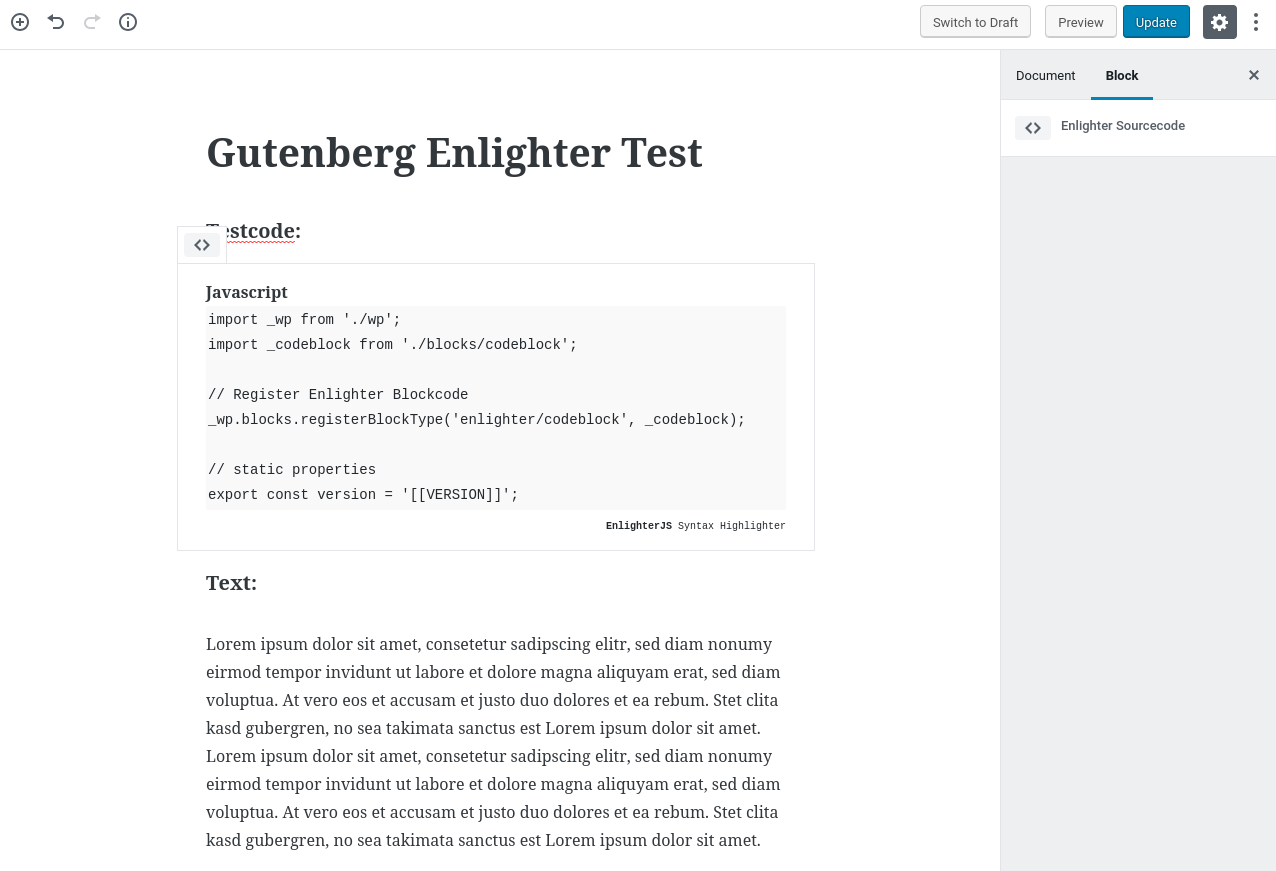
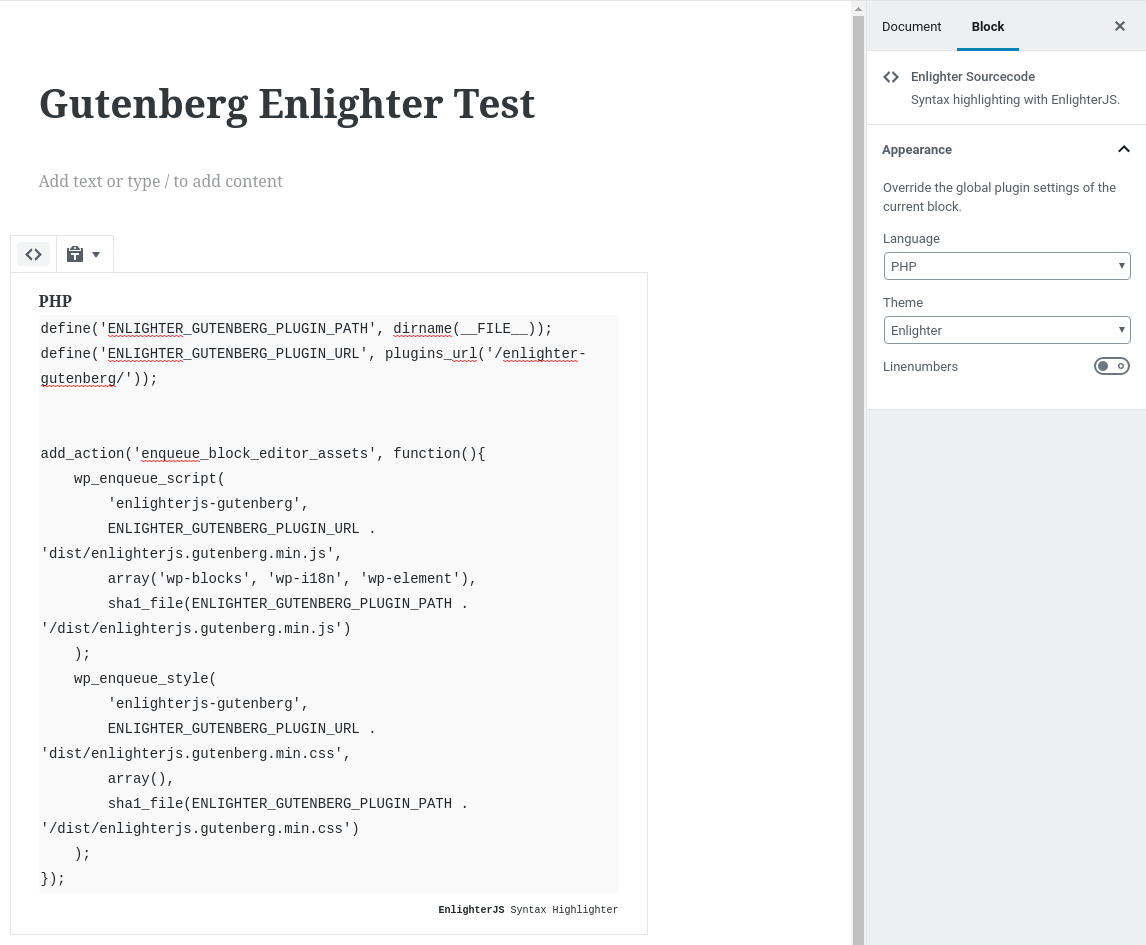
new screenshots; added theme+language selects to block settings

diff --git a/dist/enlighterjs.gutenberg.min.js b/dist/enlighterjs.gutenberg.min.js
@@ -47,7 +47,7 @@ var EnlighterJS_Gutenberg = (function (exports) {
         // create dropdown menu
         return wp.element.createElement(Components.DropdownMenu, {
             className: 'enlighter-dropdownmenu',
-            icon: 'format-aside',
+            icon: 'editor-paste-text',
             label: 'Select Language',
             controls: languageItemList
         });
@@ -55,8 +55,37 @@ var EnlighterJS_Gutenberg = (function (exports) {
 
     // ----------------------------------------------------------------------
 
+    // create a language selection menu
+    function LanguageSelect(_ref) {
+        var onChange = _ref.onChange,
+            value = _ref.value;
+
+
+        // generate dropdown list
+        var languageItemList = Object.keys(EnlighterJS_EditorConfig.languages).map(function (label) {
+
+            // extract language identifier
+            var languageIdentifier = EnlighterJS_EditorConfig.languages[label];
+
+            return {
+                label: label,
+                value: languageIdentifier
+            };
+        });
+
+        // create dropdown menu
+        return wp.element.createElement(Components.SelectControl, {
+            label: 'Language',
+            value: value,
+            onChange: onChange,
+            options: languageItemList
+        });
+    }
+
+    // ----------------------------------------------------------------------
+
     // create a theme selection menu
-    function ThemeMenu(_ref) {
+    function ThemeSelect(_ref) {
         var onChange = _ref.onChange,
             value = _ref.value;
 
@@ -68,23 +97,17 @@ var EnlighterJS_Gutenberg = (function (exports) {
             var themeIdentifier = EnlighterJS_EditorConfig.themes[label];
 
             return {
-                title: label,
-
-                // current item active ?
-                isActive: value === themeIdentifier,
-
-                // passthrough
-                onClick: function onClick() {
-                    return onChange(themeIdentifier);
-                }
+                label: label,
+                value: themeIdentifier
             };
         });
 
         // create dropdown menu
-        return wp.element.createElement(Components.DropdownMenu, {
-            icon: 'admin-appearance',
-            label: 'Select Theme',
-            controls: themeItemList
+        return wp.element.createElement(Components.SelectControl, {
+            label: 'Theme',
+            value: value,
+            onChange: onChange,
+            options: themeItemList
         });
     }
 
@@ -104,6 +127,7 @@ var EnlighterJS_Gutenberg = (function (exports) {
 
         // metadata
         title: 'Enlighter Sourcecode',
+        description: 'Syntax highlighting with EnlighterJS.',
         icon: 'editor-code',
         category: 'formatting',
         keywords: ['code', 'sourcecode', 'enlighter'],
@@ -252,7 +276,6 @@ var EnlighterJS_Gutenberg = (function (exports) {
 
 
             // use standard Gutenberg PlainText View with custom styles
-            // 
             return wp.element.createElement(
                 Element.Fragment,
                 null,
@@ -264,9 +287,6 @@ var EnlighterJS_Gutenberg = (function (exports) {
                         null,
                         wp.element.createElement(LanguageMenu, { value: attributes.language, onChange: function onChange(language) {
                                 return setAttributes({ language: language });
-                            } }),
-                        wp.element.createElement(ThemeMenu, { value: attributes.theme, onChange: function onChange(theme) {
-                                return setAttributes({ theme: theme });
                             } })
                     )
                 ),
@@ -310,7 +330,18 @@ var EnlighterJS_Gutenberg = (function (exports) {
                     null,
                     wp.element.createElement(
                         Components.PanelBody,
-                        { title: 'Settings' },
+                        { title: 'Appearance' },
+                        wp.element.createElement(
+                            'p',
+                            null,
+                            'Override the global plugin settings of the current block.'
+                        ),
+                        wp.element.createElement(LanguageSelect, { value: attributes.language, onChange: function onChange(language) {
+                                return setAttributes({ language: language });
+                            } }),
+                        wp.element.createElement(ThemeSelect, { value: attributes.theme, onChange: function onChange(theme) {
+                                return setAttributes({ theme: theme });
+                            } }),
                         wp.element.createElement(Components.ToggleControl, {
                             label: 'Linenumbers',
                             checked: attributes.linenumbers,

diff --git a/src/blocks/codeblock.js b/src/blocks/codeblock.js
@@ -8,8 +8,9 @@
 
 import {Editor, Components, Element, Blocks} from '../wp';
 import _TextEditor from '../components/TextEditor';
-import _LanguageMenu from '../components/LanguageMenu';
-import _ThemeMenu from '../components/ThemeMenu';
+import _LanguageMenu from '../components/blockcontrols/LanguageMenu';
+import _LanguageSelect from '../components/inspectorcontrols/LanguageSelect';
+import _ThemeSelect from '../components/inspectorcontrols/ThemeSelect';
 import {getLanguageLabel} from '../languages';
 
 // Standard Codeblock
@@ -17,6 +18,7 @@ export default {
 
     // metadata
     title: 'Enlighter Sourcecode',
+    description: 'Syntax highlighting with EnlighterJS.',
     icon: 'editor-code',
     category: 'formatting',
     keywords: ['code', 'sourcecode', 'enlighter'],
@@ -160,13 +162,11 @@ export default {
     edit: function ui({attributes, setAttributes}){
 
         // use standard Gutenberg PlainText View with custom styles
-        // 
         return <Element.Fragment>
 
             <Editor.BlockControls>
                 <Components.Toolbar>
                     <_LanguageMenu value={attributes.language} onChange={(language) => setAttributes({language})}/>
-                    <_ThemeMenu value={attributes.theme} onChange={(theme) => setAttributes({theme})} />
                 </Components.Toolbar>
             </Editor.BlockControls>
 
@@ -186,7 +186,10 @@ export default {
             </div>
 
             <Editor.InspectorControls>
-                <Components.PanelBody title="Settings">
+                <Components.PanelBody title="Appearance">
+                    <p>Override the global plugin settings of the current block.</p>
+                    <_LanguageSelect value={attributes.language} onChange={(language) => setAttributes({language})} />
+                    <_ThemeSelect value={attributes.theme} onChange={(theme) => setAttributes({theme})} />
                     <Components.ToggleControl
                         label="Linenumbers"
                         checked={ attributes.linenumbers }

diff --git a/src/components/inspectorcontrols/ThemeSelect.js b/src/components/inspectorcontrols/ThemeSelect.js
@@ -6,11 +6,11 @@
 // Copyright 2018 Andi Dittrich <https://andidittrich.de>
 // ----------------------------------------------------------------------
 
-import {Components} from '../wp';
-import _editorConfig from '../config';
+import {Components} from '../../wp';
+import _editorConfig from '../../config';
 
 // create a theme selection menu
-export default function ThemeMenu({onChange, value}){
+export default function ThemeSelect({onChange, value}){
 
     // generate dropdown list
     const themeItemList = Object.keys(_editorConfig.themes).map(label => {
@@ -19,20 +19,16 @@ export default function ThemeMenu({onChange, value}){
         const themeIdentifier = _editorConfig.themes[label];
 
         return {
-            title: label,
-
-            // current item active ?
-            isActive: (value === themeIdentifier),
-
-            // passthrough
-            onClick: () => onChange(themeIdentifier)
+            label: label,
+            value: themeIdentifier
         };
     });
 
     // create dropdown menu
-    return <Components.DropdownMenu
-        icon="admin-appearance"
-        label="Select Theme"
-        controls={themeItemList}
+    return <Components.SelectControl
+        label="Theme"
+        value={value}
+        onChange={onChange}
+        options={themeItemList}
     />
 }

diff --git a/src/components/inspectorcontrols/LanguageSelect.js b/src/components/inspectorcontrols/LanguageSelect.js
@@ -1,0 +1,34 @@
+// ----------------------------------------------------------------------
+// This Source Code Form is subject to the terms of the Mozilla Public
+// License, v. 2.0. If a copy of the MPL was not distributed with this
+// file, You can obtain one at http://mozilla.org/MPL/2.0/.
+// --
+// Copyright 2018 Andi Dittrich <https://andidittrich.de>
+// ----------------------------------------------------------------------
+
+import {Components} from '../../wp';
+import _editorConfig from '../../config';
+
+// create a language selection menu
+export default function LanguageSelect({onChange, value}){
+
+    // generate dropdown list
+    const languageItemList = Object.keys(_editorConfig.languages).map(label => {
+
+        // extract language identifier
+        const languageIdentifier = _editorConfig.languages[label];
+
+        return {
+            label: label,
+            value: languageIdentifier
+        };
+    });
+
+    // create dropdown menu
+    return <Components.SelectControl
+        label="Language"
+        value={value}
+        onChange={onChange}
+        options={languageItemList}
+    />
+}

diff --git a/src/components/blockcontrols/LanguageMenu.js b/src/components/blockcontrols/LanguageMenu.js
@@ -6,8 +6,8 @@
 // Copyright 2018 Andi Dittrich <https://andidittrich.de>
 // ----------------------------------------------------------------------
 
-import {Components} from '../wp';
-import _editorConfig from '../config';
+import {Components} from '../../wp';
+import _editorConfig from '../../config';
 
 // create a language selection menu
 export default function LanguageMenu({onChange, value}){
@@ -32,7 +32,7 @@ export default function LanguageMenu({onChange, value}){
     // create dropdown menu
     return <Components.DropdownMenu
         className="enlighter-dropdownmenu"
-        icon="format-aside"
+        icon="editor-paste-text"
         label="Select Language"
         controls={languageItemList}
     />

diff --git a/README.md b/README.md
@@ -10,7 +10,7 @@ Current Limitations
 **Caused By:** [gutenberg/8648](https://github.com/WordPress/gutenberg/issues/8648)
 * Newly created codeblocks (via Gutenberg) mess up the HTML with unused attributes because of a validation issue.  
 **Caused By:** [gutenberg/8532](https://github.com/WordPress/gutenberg/issues/8532) / [gutenberg/7604](https://github.com/WordPress/gutenberg/issues/7604)
-* Inline Syntax Highlighting is not support  
+* Inline Syntax Highlighting is not supported  
 **Caused By:** doesn't match with the Gutenberg Blocks-Only Style..
 
 Usage
